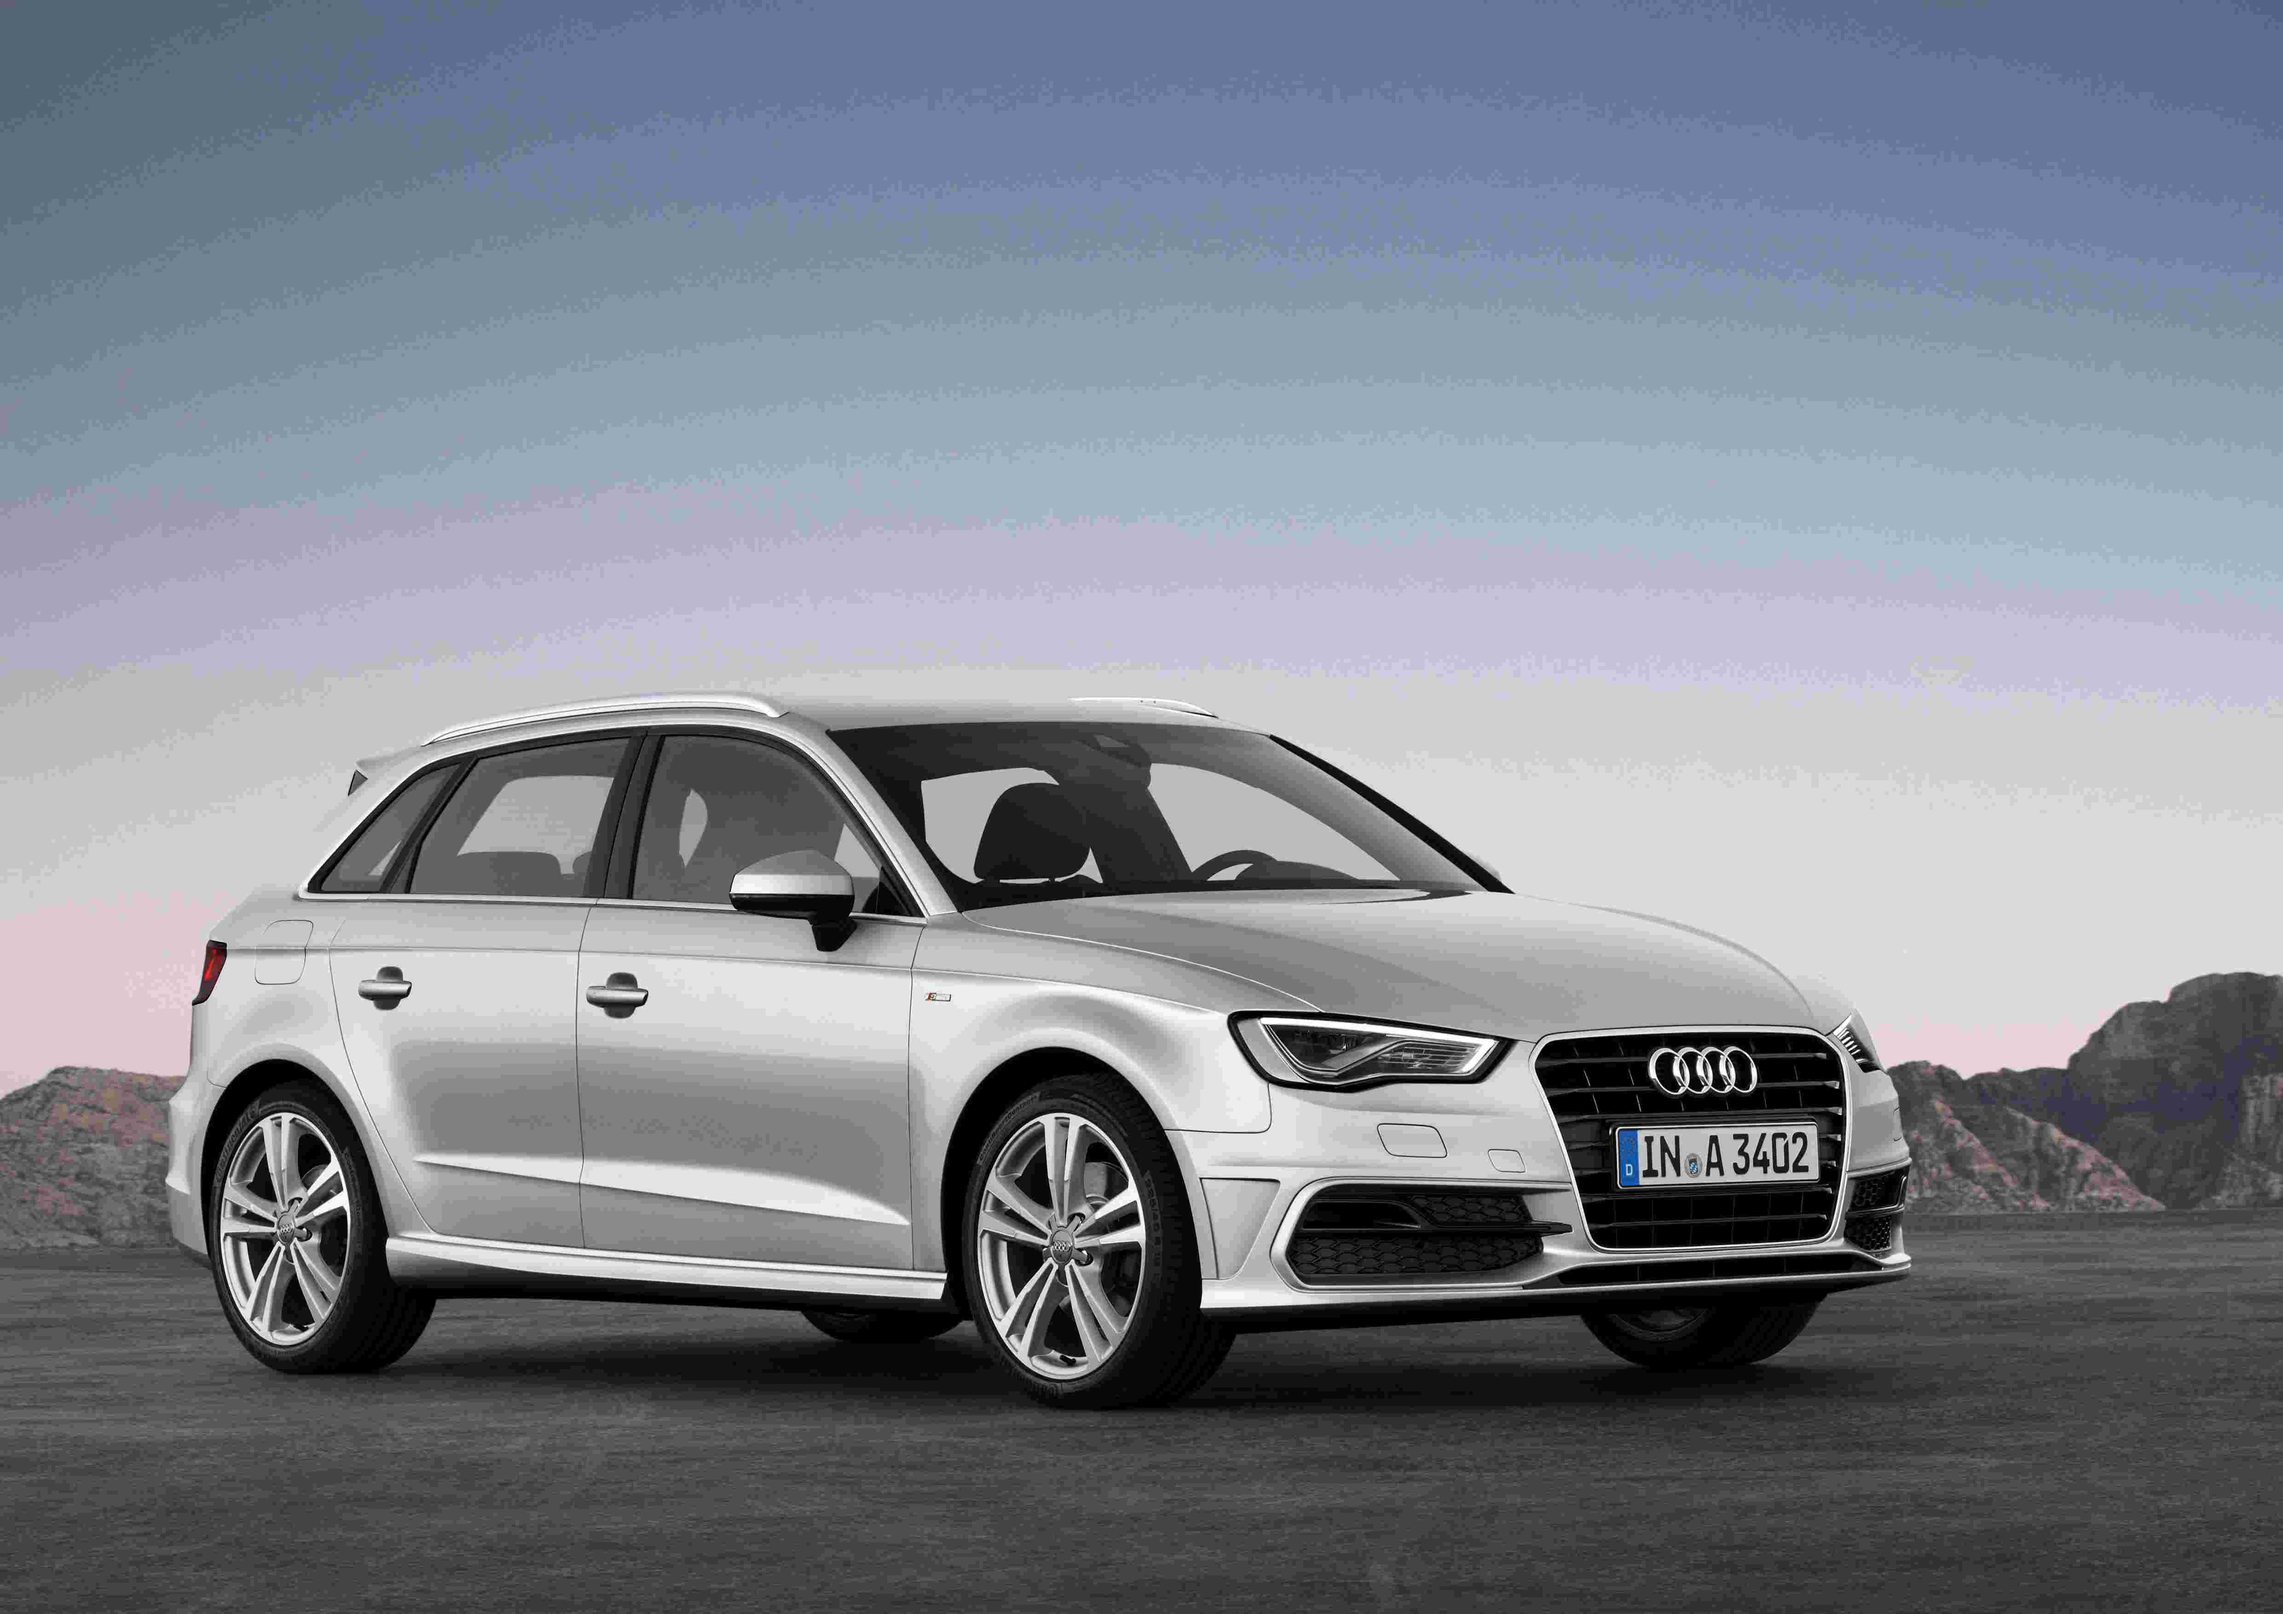
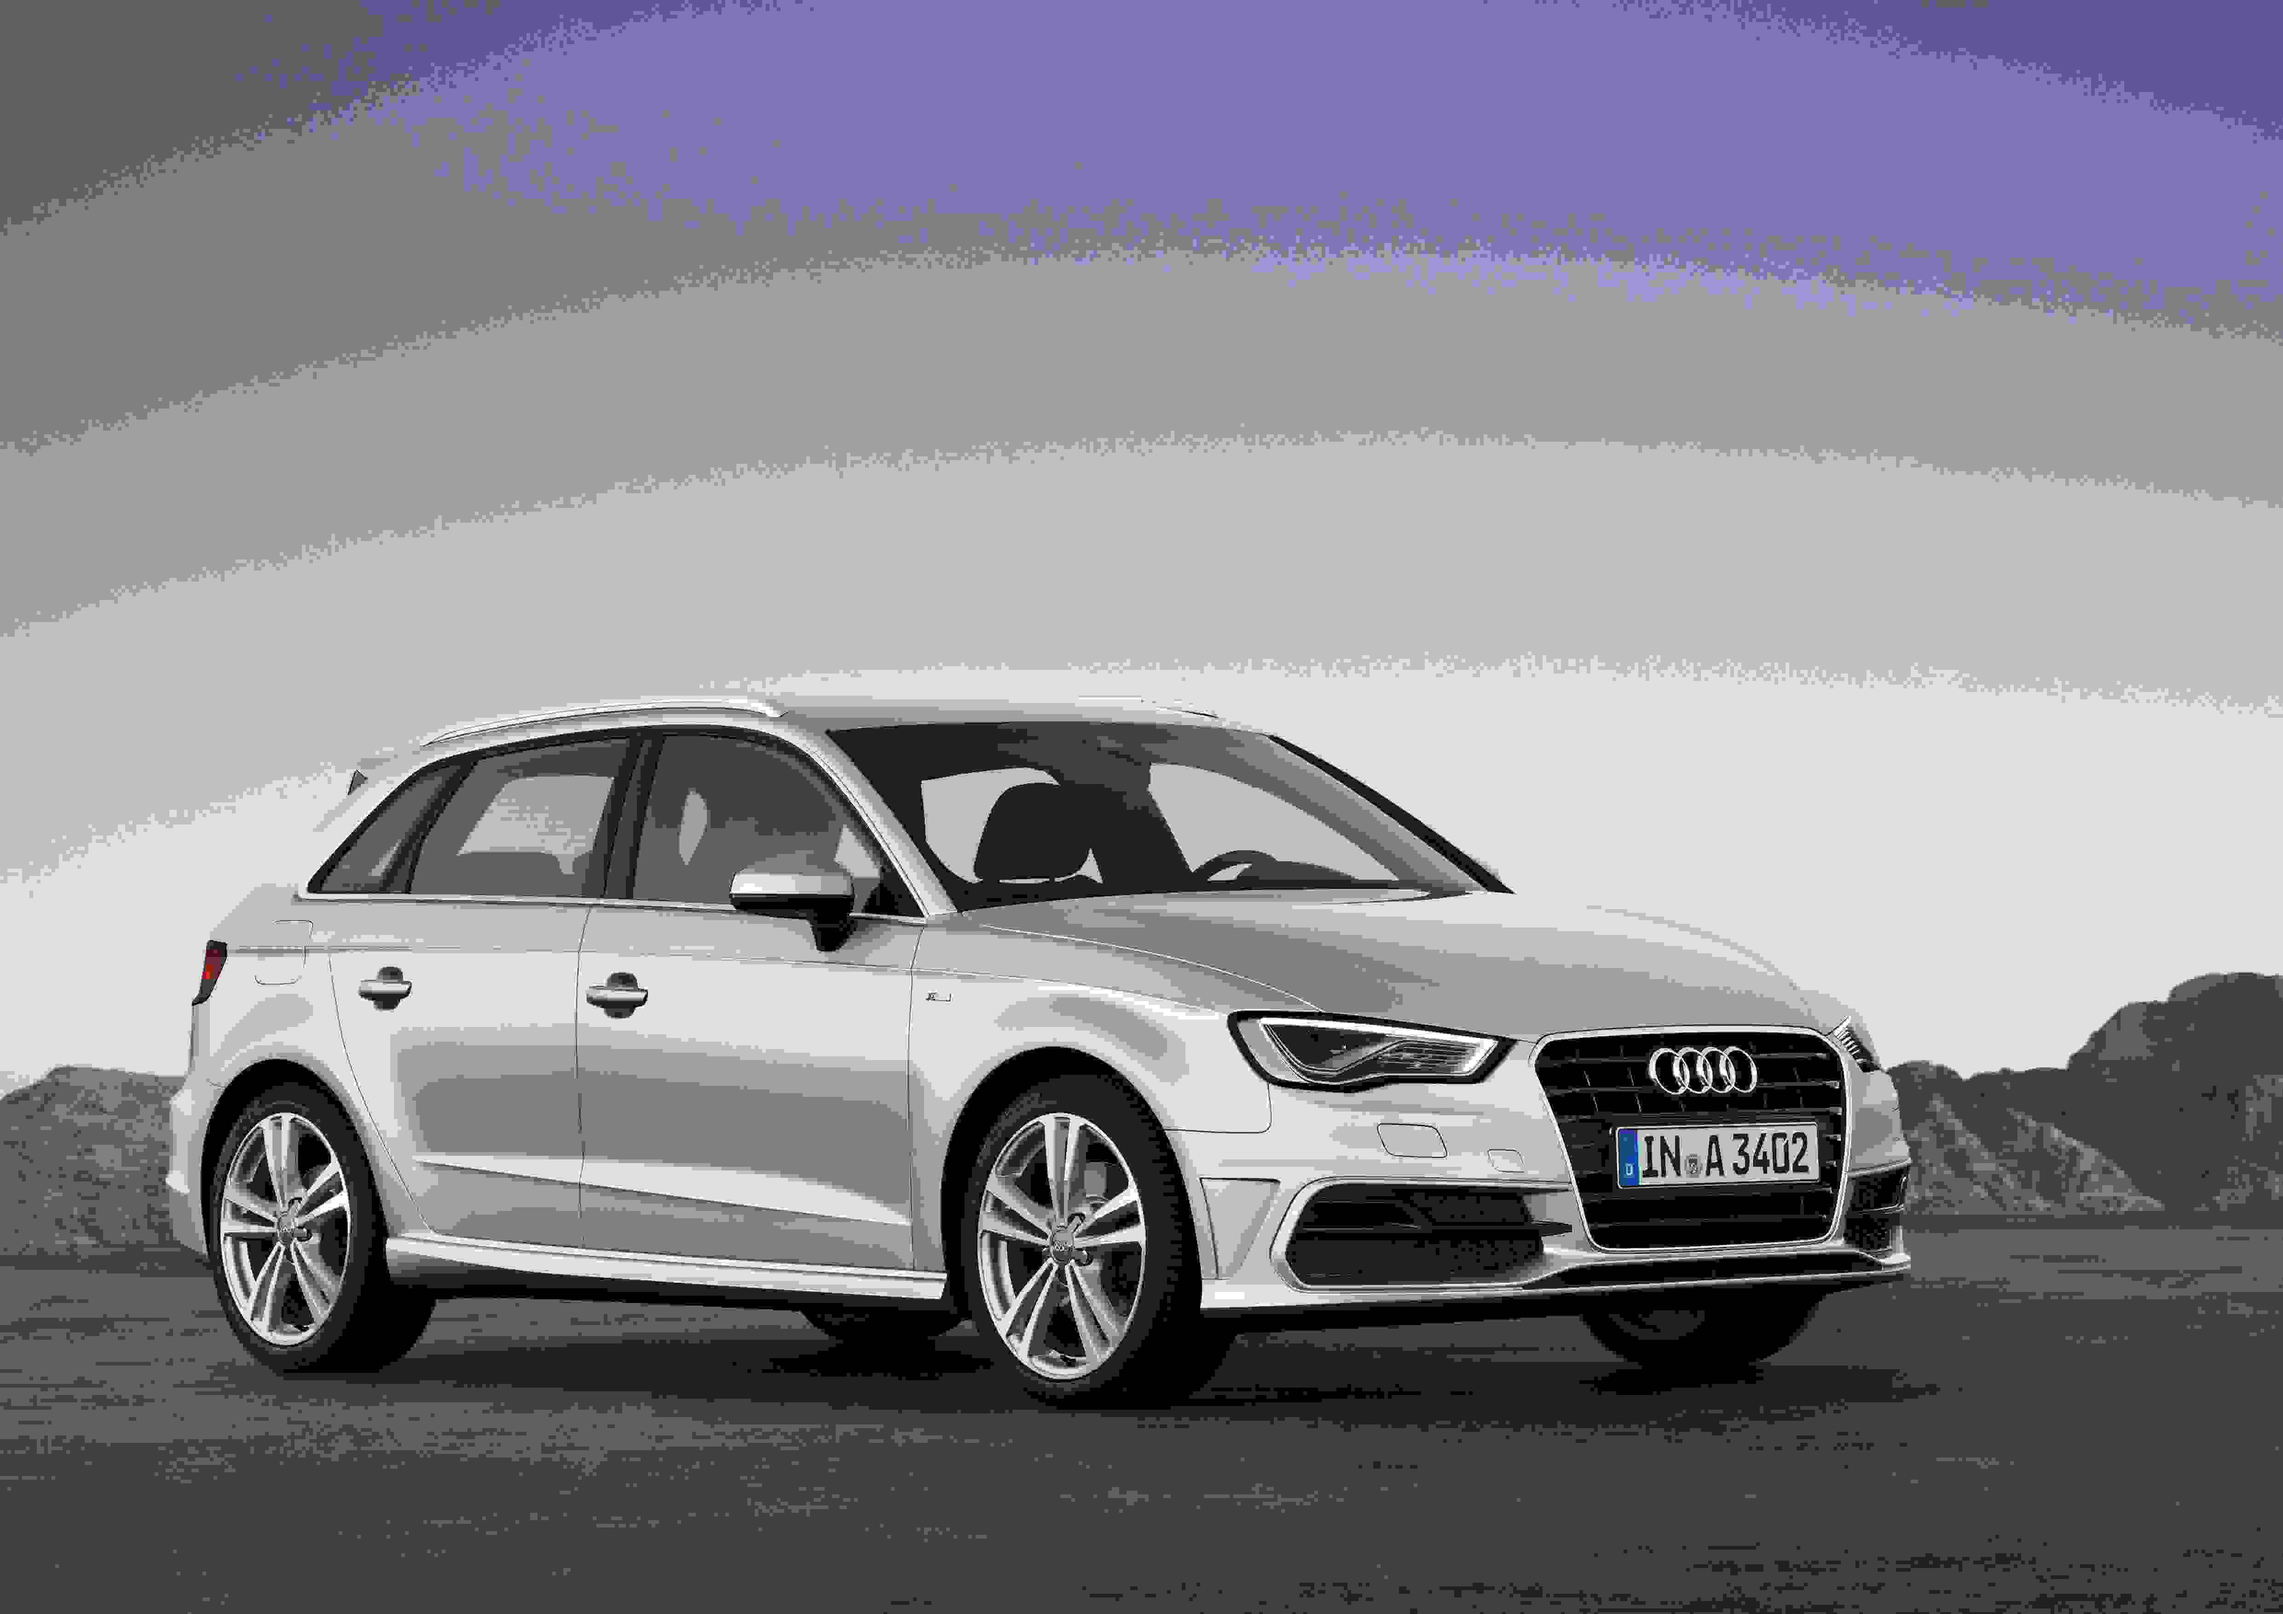
Tighten up that conditional check with a more concise regex

diff --git a/sass/url64.rb b/sass/url64.rb
@@ -28,15 +28,15 @@ module Sass::Script::Functions
         absname = File.expand_path(fullpath)
         ext = File.extname(path)
 
-        # optimize image
-        if ext == '.gif' || ext == '.jpg' || ext == '.png'
+        # optimize image if it's a gif, jpg, png
+        if ext.index(%r{\.(?:gif|jpg|png)}) != nil
             # homebrew link to pngcrush is outdated so need to avoid pngcrush for now
             # also homebrew doesn't support pngout so we ignore that too!
             # The following links show the compression settings...
             # https://github.com/toy/image_optim/blob/master/lib/image_optim/worker/advpng.rb
             # https://github.com/toy/image_optim/blob/master/lib/image_optim/worker/optipng.rb
             # https://github.com/toy/image_optim/blob/master/lib/image_optim/worker/jpegoptim.rb
-            image_optim = ImageOptim.new(:pngcrush => false, :pngout => false, :advpng => {:level => 4}, :optipng => {:level => 7}, :jpegoptim => {:max_quality => 10}) 
+            image_optim = ImageOptim.new(:pngcrush => false, :pngout => false, :advpng => {:level => 4}, :optipng => {:level => 7}, :jpegoptim => {:max_quality => 1}) 
             
             # we can lose the ! and the method will save the image to a temp directory, otherwise it'll overwrite the original image
             image_optim.optimize_image!(fullpath)
